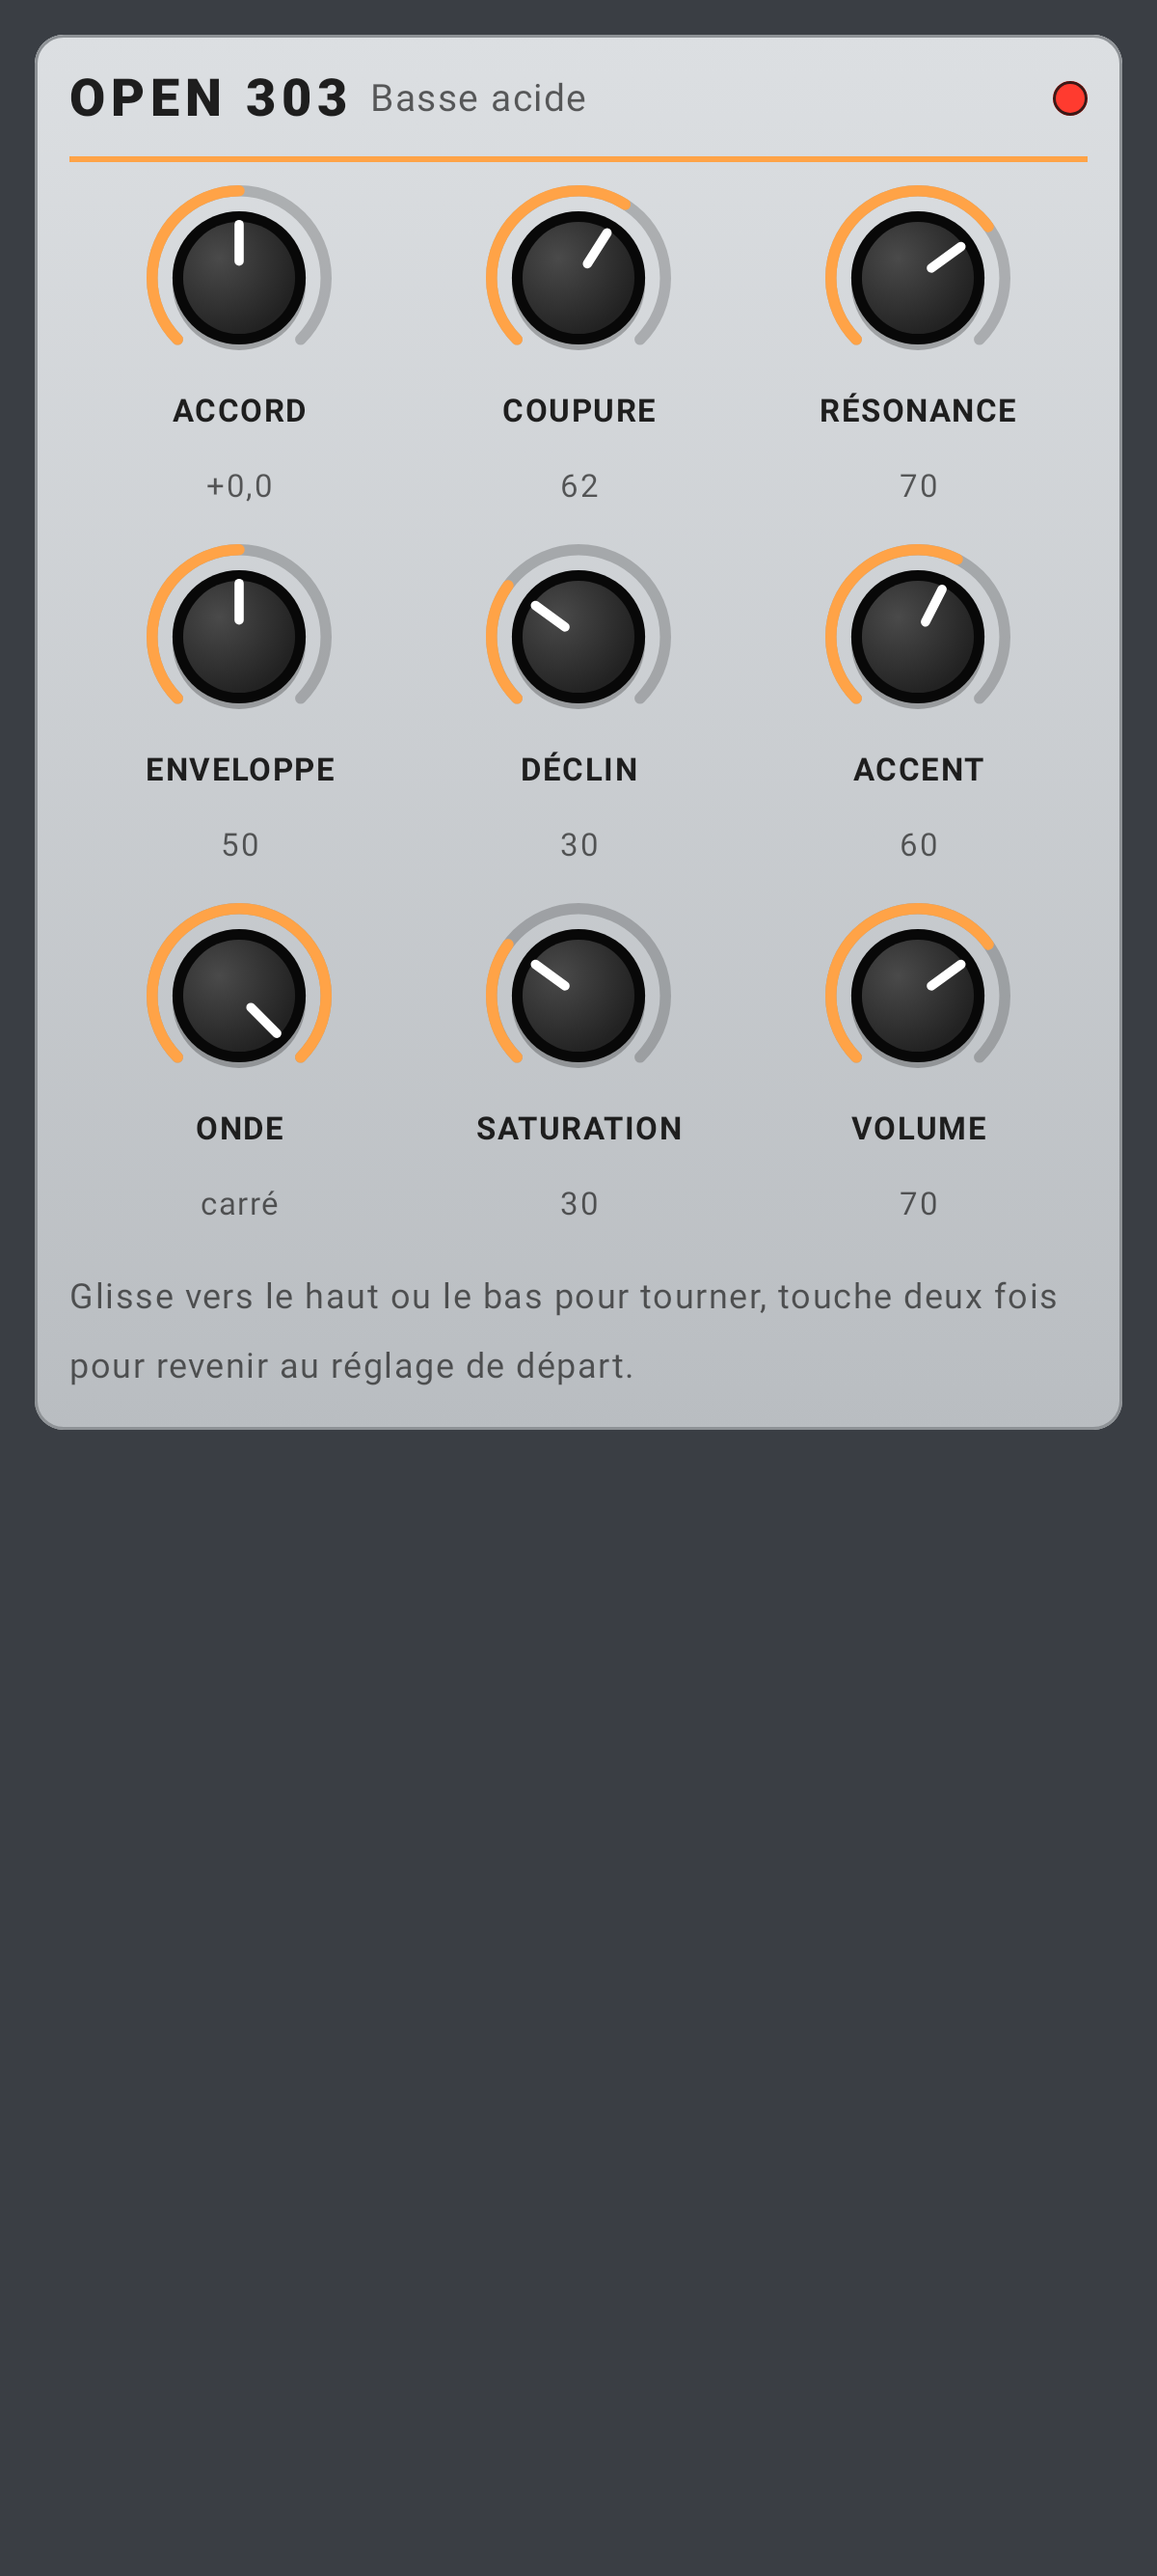
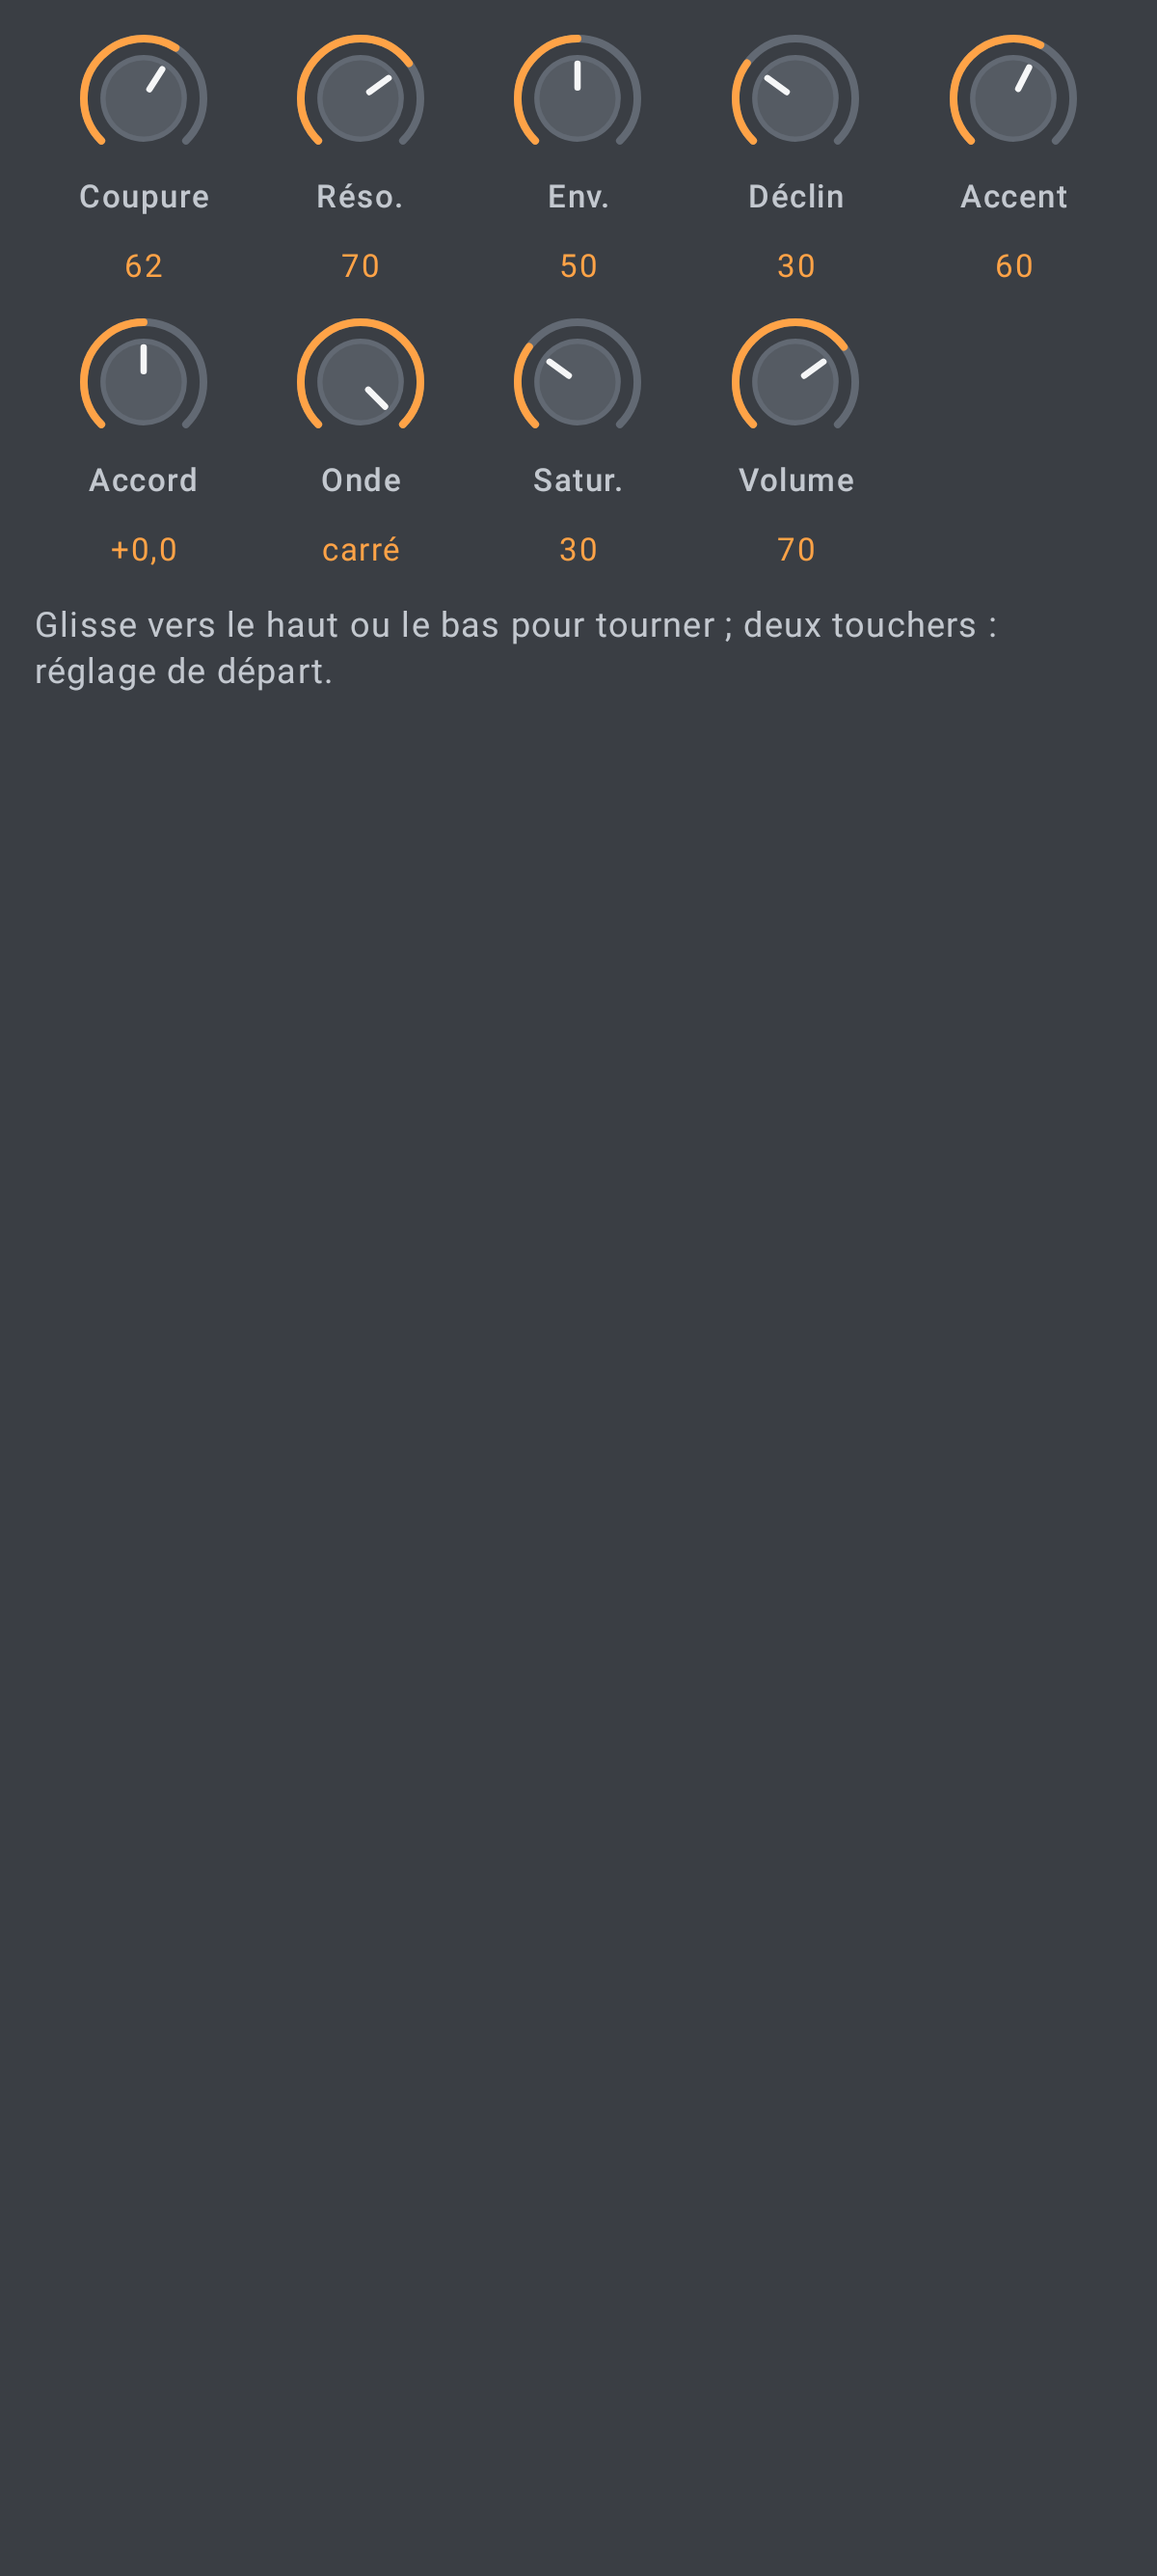
Acid: compact app-styled knobs instead of the TB-303 panel
Claude-Session: https://claude.ai/code/session_01NqonxZBBysqqWBbnsC2VTP

diff --git a/app/src/main/java/com/pocketstudio/app/acid/AcidScreen.kt b/app/src/main/java/com/pocketstudio/app/acid/AcidScreen.kt
@@ -54,8 +54,6 @@ import androidx.compose.ui.platform.testTag
 import androidx.compose.ui.text.font.FontWeight
 import androidx.compose.ui.unit.dp
 import androidx.compose.ui.unit.sp
-import androidx.compose.foundation.layout.size
-import androidx.compose.ui.graphics.Brush
 import com.pocketstudio.model.AcidPattern
 import com.pocketstudio.model.AcidSound
 import com.pocketstudio.ui.Knob
@@ -144,7 +142,7 @@ fun AcidScreen(
         val setEnglish: (Boolean) -> Unit = { english = it; Notation.setEnglish(context, it) }
         StepGrid(acid, playing, currentStep, selected, actions, english, setEnglish)
         StepEditor(acid, selected, actions, english)
-        SoundCard(acid, playing, actions)
+        SoundCard(acid, actions)
     }
 }
 
@@ -320,7 +318,7 @@ private fun StepEditor(acid: AcidPattern, index: Int, actions: AcidActions, engl
 }
 
 @Composable
-private fun SoundCard(acid: AcidPattern, playing: Boolean, actions: AcidActions) {
+private fun SoundCard(acid: AcidPattern, actions: AcidActions) {
     val values = acid.sound.values()
     val context = LocalContext.current
     var sliders by remember { mutableStateOf(SoundView.sliders(context)) }
@@ -337,7 +335,7 @@ private fun SoundCard(acid: AcidPattern, playing: Boolean, actions: AcidActions)
             }
         }
         if (!sliders) {
-            Panel303(values, playing, actions.setSound)
+            Panel303(values, actions.setSound)
             return@NeonCard
         }
         SOUND_LABELS.forEachIndexed { i, label ->
@@ -362,58 +360,38 @@ private object SoundView {
         context.getSharedPreferences("ui", Context.MODE_PRIVATE).edit().putBoolean(KEY, on).apply()
 }
 
-// Knob layout of the panel, in rows (AcidSound value indices), as on the original's top row.
-private val PANEL_ROWS = listOf(listOf(5, 0, 1), listOf(2, 3, 4), listOf(6, 7, 8))
-private val PANEL_LABELS = listOf("COUPURE", "RÉSONANCE", "ENVELOPPE", "DÉCLIN", "ACCENT", "ACCORD", "ONDE", "SATURATION", "VOLUME")
+// Knob layout of the panel, in rows (AcidSound value indices): the filter first, then the rest.
+private val PANEL_ROWS = listOf(listOf(0, 1, 2, 3, 4), listOf(5, 6, 7, 8))
+private val PANEL_LABELS = listOf("Coupure", "Réso.", "Env.", "Déclin", "Accent", "Accord", "Onde", "Satur.", "Volume")
 
-/** The 303's sound as a brushed-aluminium panel of black knobs, like the hardware. */
+/** The 303's sound as two compact rows of knobs. */
 @Composable
-internal fun Panel303(values: List<Float>, playing: Boolean, setSound: (Int, Float) -> Unit) {
+internal fun Panel303(values: List<Float>, setSound: (Int, Float) -> Unit) {
     val defaults = AcidSound().values()
-    val ink = Color(0xFF1E1E1E)
     val knobColors = KnobColors(
-        cap = Color(0xFF222222), capEdge = Color(0xFF080808), pointer = Color.White,
-        track = Color(0x33000000), value = Neon.Cyan, label = ink,
+        cap = Neon.SurfaceHigh, capEdge = Neon.Outline, pointer = Neon.TextPrimary,
+        track = Neon.Outline, value = Neon.Cyan, label = Neon.TextSecondary,
     )
-    Column(
-        Modifier.fillMaxWidth()
-            .clip(RoundedCornerShape(10.dp))
-            .background(Brush.verticalGradient(listOf(Color(0xFFDCDFE2), Color(0xFFB9BDC1))))
-            .border(1.dp, Color(0xFF8E9296), RoundedCornerShape(10.dp))
-            .padding(horizontal = 12.dp, vertical = 10.dp)
-            .testTag("acid_panel"),
-        verticalArrangement = Arrangement.spacedBy(8.dp),
-    ) {
-        Row(verticalAlignment = Alignment.CenterVertically) {
-            Text("OPEN 303", color = ink, fontWeight = FontWeight.Black, fontSize = 18.sp, letterSpacing = 2.sp)
-            Text("  Basse acide", color = ink.copy(alpha = 0.7f), fontSize = 13.sp, modifier = Modifier.weight(1f))
-            // The run lamp: lit while the pattern plays.
-            Box(
-                Modifier.size(12.dp).clip(RoundedCornerShape(6.dp))
-                    .background(if (playing) Color(0xFFFF3B2F) else Color(0xFF6E2A26))
-                    .border(1.dp, Color(0xFF3A1A18), RoundedCornerShape(6.dp)),
-            )
-        }
-        Box(Modifier.fillMaxWidth().height(2.dp).background(Neon.Cyan))
+    Column(Modifier.fillMaxWidth().testTag("acid_panel"), verticalArrangement = Arrangement.spacedBy(6.dp)) {
         PANEL_ROWS.forEach { row ->
-            Row(Modifier.fillMaxWidth(), horizontalArrangement = Arrangement.SpaceEvenly) {
+            Row(Modifier.fillMaxWidth()) {
                 row.forEach { i ->
                     Knob(
                         value = values[i],
                         onValueChange = { setSound(i, it) },
                         label = PANEL_LABELS[i],
                         default = defaults[i],
+                        size = 44.dp,
                         colors = knobColors,
                         valueText = knobText(i, values[i]),
                         modifier = Modifier.weight(1f).testTag("acid_knob_$i"),
                     )
                 }
+                // Same knob width on both rows.
+                repeat(PANEL_ROWS[0].size - row.size) { Box(Modifier.weight(1f)) }
             }
         }
-        Text(
-            "Glisse vers le haut ou le bas pour tourner, touche deux fois pour revenir au réglage de départ.",
-            color = ink.copy(alpha = 0.7f), fontSize = 12.sp,
-        )
+        Text("Glisse vers le haut ou le bas pour tourner ; deux touchers : réglage de départ.", style = MaterialTheme.typography.bodySmall, color = Neon.TextSecondary)
     }
 }
 

diff --git a/ui-components/src/main/java/com/pocketstudio/ui/Knob.kt b/ui-components/src/main/java/com/pocketstudio/ui/Knob.kt
@@ -14,7 +14,6 @@ import androidx.compose.ui.Alignment
 import androidx.compose.ui.Modifier
 import androidx.compose.ui.geometry.Offset
 import androidx.compose.ui.geometry.Size
-import androidx.compose.ui.graphics.Brush
 import androidx.compose.ui.graphics.Color
 import androidx.compose.ui.graphics.StrokeCap
 import androidx.compose.ui.graphics.drawscope.Stroke
@@ -62,7 +61,7 @@ fun Knob(
     val current by rememberUpdatedState(value)
     val change by rememberUpdatedState(onValueChange)
     val haptics = LocalHapticFeedback.current
-    Column(modifier, horizontalAlignment = Alignment.CenterHorizontally, verticalArrangement = Arrangement.spacedBy(2.dp)) {
+    Column(modifier, horizontalAlignment = Alignment.CenterHorizontally, verticalArrangement = Arrangement.spacedBy(0.dp)) {
         Canvas(
             Modifier.size(size)
                 .semantics {
@@ -96,26 +95,15 @@ fun Knob(
             if (value > 0.005f) {
                 drawArc(colors.value, 135f, 270f * value, false, arcTopLeft, arc, style = Stroke(stroke, cap = StrokeCap.Round))
             }
-            // The cap: a ribbed rim and a slightly lit top, like a moulded knob.
-            val capR = r * 0.72f
-            drawCircle(Color.Black.copy(alpha = 0.25f), capR, c + Offset(0f, r * 0.06f))
+            // The cap: a flat disc with a thin rim.
+            val capR = r * 0.68f
             drawCircle(colors.capEdge, capR, c)
-            drawCircle(
-                Brush.radialGradient(listOf(colors.cap.copy(alpha = 1f).compositeOver(Color.White, 0.18f), colors.cap), c - Offset(capR * 0.3f, capR * 0.3f), capR * 1.2f),
-                capR * 0.84f, c,
-            )
+            drawCircle(colors.cap, capR * 0.88f, c)
             val angle = Math.toRadians(135.0 + 270.0 * value)
             val dir = Offset(cos(angle).toFloat(), sin(angle).toFloat())
             drawLine(colors.pointer, c + dir * (capR * 0.25f), c + dir * (capR * 0.8f), strokeWidth = r * 0.1f, cap = StrokeCap.Round)
         }
-        Text(label, color = colors.label, fontSize = 11.sp, fontWeight = FontWeight.Bold, textAlign = TextAlign.Center, maxLines = 1)
-        if (valueText != null) Text(valueText, color = colors.label.copy(alpha = 0.7f), fontSize = 11.sp, textAlign = TextAlign.Center, maxLines = 1)
+        Text(label, color = colors.label, fontSize = 11.sp, fontWeight = FontWeight.Medium, textAlign = TextAlign.Center, maxLines = 1)
+        if (valueText != null) Text(valueText, color = colors.value, fontSize = 11.sp, textAlign = TextAlign.Center, maxLines = 1)
     }
 }
-
-private fun Color.compositeOver(other: Color, amount: Float) = Color(
-    red = red + (other.red - red) * amount,
-    green = green + (other.green - green) * amount,
-    blue = blue + (other.blue - blue) * amount,
-    alpha = alpha,
-)

diff --git a/app/src/test/java/com/pocketstudio/app/ScreenshotTest.kt b/app/src/test/java/com/pocketstudio/app/ScreenshotTest.kt
@@ -370,7 +370,7 @@ class ScreenshotTest {
     @Test
     fun acidPanel() = shoot("acid_panel") {
         androidx.compose.foundation.layout.Column(androidx.compose.ui.Modifier.padding(androidx.compose.ui.unit.Dp(12f))) {
-            com.pocketstudio.app.acid.Panel303(com.pocketstudio.model.AcidSound(cutoff = 0.62f, waveform = 1f).values(), playing = true) { _, _ -> }
+            com.pocketstudio.app.acid.Panel303(com.pocketstudio.model.AcidSound(cutoff = 0.62f, waveform = 1f).values()) { _, _ -> }
         }
     }
 

diff --git a/docs/DECISIONS.md b/docs/DECISIONS.md
@@ -95,4 +95,4 @@
 | 2026-10-20 | Pads live : chaque son repart tous les N temps sur une horloge de temps partagée (calée sur le séquenceur quand il joue), lancement à la grille suivante (≤ 1 mesure), sans étirement | Simple et toujours en rythme : un kick sur « 1 temps » fait un 4/4, une boucle de 2 mesures tourne sur 8 temps | Étirer les boucles au tempo comme les pads calés |
 | 2026-10-20 | Pads live et écoute Remix passent par la voie « Remix » du mixeur ; les pads live ne sont pas dans l'export | Pas de 5e voie à câbler partout (mixeur, automation, export) | Voie dédiée + export si demandé |
 | 2026-10-20 | Écoute Remix par le moteur (2e lecteur de stems libre du transport) au lieu de MediaPlayer | Les 4 pistes restent parfaitement synchrones, on coupe/rallume sans arrêt | MediaPlayer par piste |
-| 2026-10-20 | Panneau 303 à boutons rotatifs (aluminium brossé, boutons noirs, lampe rouge) par défaut, curseurs en option | Demande de Benjamin ; exception assumée au style sobre (DESIGN.md) pour ce panneau seulement | Revenir aux curseurs par défaut |
+| 2026-10-20 | Son de l'acide en potards compacts (2 rangées de 44 dp, couleurs de l'appli) par défaut, curseurs en option ; le style TB-303 (alu, lampe) est abandonné à la demande de Benjamin | Prend environ un tiers de la place des curseurs, reste dans la ligne graphique | Revenir aux curseurs par défaut |

diff --git a/docs/PROGRESS.md b/docs/PROGRESS.md
@@ -73,7 +73,7 @@
   - 24 scènes (A à X) au lieu de 8, grille « Afficher 8 · 16 · 24 » (demande de Benjamin) ;
   - pads live (lanceur de boucles 4 à 16 pads, onglet Morceau) : ClipLauncher dans le moteur, testé sur Linux ; import, son d'un pad de batterie, « → Live » depuis le Remix ;
   - Remix : écoute des 4 pistes ensemble par le moteur, chaque piste allumée ou coupée sans arrêt ;
-  - Acide : panneau façon TB-303 à boutons rotatifs (composant Knob dans ui-components).
+  - Acide : potards compacts (composant Knob dans ui-components), curseurs en option.
 
 ## Prochaine étape exacte
 1. Phase 5.2 : préréglages classés (basse, nappe, lead…), favoris, bouton « Au hasard » pour le Synthé, Plaits et l'acide.
